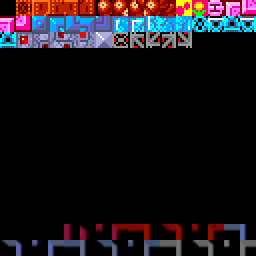
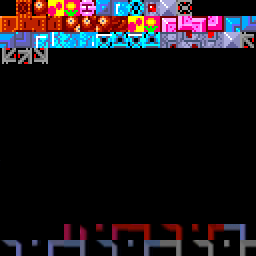
fixed solidity and changed bitmap

Changed region(s): [[0.0, 0.0, 1.0, 0.25]]

diff --git a/Bubble Bobble/src/terrain/TileLayer.cpp b/Bubble Bobble/src/terrain/TileLayer.cpp
@@ -18,7 +18,8 @@
 		for (Dim i=0; i<TILE_LAYER_HEIGHT; ++i){
 			for (Dim j=0; j<TILE_LAYER_WIDTH; ++j){		
 				map[i][j] = 0;
-				tilesSolidity[i][j] = EmptyOrShadow;
+				tilesSolidity[i][j][true] = false;
+				tilesSolidity[i][j][false] = false;
 			}
 		}
 		delete tilesBitmap;
@@ -49,14 +50,18 @@
 				for (Dim j=0; j<TILE_LAYER_WIDTH; ++j){
 					openfile >> nextIndex;
 					map[i][j] = nextIndex;
-					if (map[i][j] == 0 || map[i][j] > SOLID_THRESHOLD){
-						tilesSolidity[i][j] = EmptyOrShadow;
-					}
-					else if (map[i][j] == 1){
-						tilesSolidity[i][j] = SmallBrick;
-					}
-					else{
-						tilesSolidity[i][j] = BigBrick;
+					/*empty or shadow*/
+					if (map[i][j] == 0 || map[i][j] >= BIG_BRICK_THRESHOLD){
+						tilesSolidity[i][j][true] = false;
+						tilesSolidity[i][j][false] = false;
+					}/*small brick*/
+					else if (map[i][j] < SMALL_BRICK_THRESHOLD){
+						tilesSolidity[i][j][true] = false;
+						tilesSolidity[i][j][false] = true;
+					}/*big brick*/
+					else if (map[i][j] >= SMALL_BRICK_THRESHOLD && map[i][j] <= BIG_BRICK_THRESHOLD){
+						tilesSolidity[i][j][true] = true;
+						tilesSolidity[i][j][false] = true;
 					}
 					DASSERT( map[i][j] >= 0 && map[i][j] < TILES_BITMAP_SIZE*TILES_BITMAP_SIZE  );
 				}
@@ -136,27 +141,13 @@
 		return std::make_pair(MUL_TILE_SIZE(row), MUL_TILE_SIZE(col) );
 	}
 
-	const bool TileLayer::isSolid(Dim x, Dim y, BBmovement move) const{
-
-		DASSERT(move>=-1 && move <=2);
+	const bool TileLayer::isSolid(Dim x, Dim y, BBMovementIsUp moveUp) const{
 
 		Coordinates tileCoordinates = GetTileCoordinates(x,y);
-		DASSERT(tilesSolidity[tileCoordinates.first][tileCoordinates.second] >= -1 &&
-				tilesSolidity[tileCoordinates.first][tileCoordinates.second]<=1);
 
-		switch (tilesSolidity[tileCoordinates.first][tileCoordinates.second]){
-			case EmptyOrShadow:
-				return false;
-			case SmallBrick:
-				if (move == BBUp)
-					return false;
-				else
-					return true;
-			case BigBrick:
-				return true;
-			default:
-				return false;
-		}
+		return tilesSolidity[tileCoordinates.first]
+							[tileCoordinates.second]
+							[moveUp];
 	}
 
 	/*view window*/

diff --git a/Bubble Bobble/include/terrain/TileLayer.h b/Bubble Bobble/include/terrain/TileLayer.h
@@ -7,12 +7,12 @@
 #include <allegro5\allegro.h>
 #include <allegro5\allegro_image.h>
 
-typedef std::pair<Dim, Dim> Coordinates;
-
 enum HorizScroll {Left = -1, HorizIntact = 0, Right = +1 };
 enum VertScroll {Up = -1, VertIntact = 0, Down = +1 };
-enum Solidity_t {BigBrick = -1, SmallBrick = 0, EmptyOrShadow = +1};
-enum BBmovement {BBLeft = -1, BBUp = 0, BBDown = +1, BBRight = +2 };
+
+typedef std::pair<Dim, Dim> Coordinates;
+typedef bool BBMovementIsUp;
+#define MAX_SEPARATED_MOVEMENTS 2
 
 #define TILE_LAYER_WIDTH 32
 #define TILE_LAYER_HEIGHT 26
@@ -20,6 +20,9 @@ enum BBmovement {BBLeft = -1, BBUp = 0, BBDown = +1, BBRight = +2 };
 #define VIEW_WINDOW_HEIGHT 416
 #define VIEW_WINDOW_TILE_WIDTH 32
 #define VIEW_WINDOW_TILE_HEIGHT 26
+
+#define SMALL_BRICK_THRESHOLD 16
+#define BIG_BRICK_THRESHOLD 64
 
 class TileLayer{
 
@@ -31,7 +34,7 @@ class TileLayer{
 	private:
 		TileBitmap* tilesBitmap;
 		Index map[TILE_LAYER_HEIGHT][TILE_LAYER_WIDTH];
-		Solidity_t tilesSolidity[TILE_LAYER_HEIGHT][TILE_LAYER_WIDTH];
+		bool tilesSolidity[TILE_LAYER_HEIGHT][TILE_LAYER_WIDTH][MAX_SEPARATED_MOVEMENTS];
 		Rect viewWindow;
 
 	public:
@@ -45,7 +48,7 @@ class TileLayer{
 		Index GetTile (Dim row, Dim col);
 		const Coordinates GetTileCoordinates (Dim x, Dim y) const;
 		const Coordinates GetXYCoordinates (Dim row, Dim col) const;
-		const bool isSolid(Dim x, Dim y, BBmovement move) const;
+		const bool isSolid(Dim x, Dim y, BBMovementIsUp moveUp) const;
 
 		void SetViewWindow (const Rect&);
 		const Rect	GetViewWindow (void) const;

diff --git a/Bubble Bobble/src/BubbleMain.cpp b/Bubble Bobble/src/BubbleMain.cpp
@@ -62,8 +62,8 @@ TileLayer* BubbleMain::InitTerrain(){
 void BubbleMain::InitGameEngine(){
 
 	afh = new AnimationFilmHolder("..\\data\\bitmaps\\sprites\\data.xml");
-	FrameRangeAnimation *fra=new FrameRangeAnimation(0,6,-2,0,100,false,1);
-	Sprite *sprite=new Sprite(400,50,false,afh->GetFilm("Bubopenmouth"), actionLayer);
+	FrameRangeAnimation *fra=new FrameRangeAnimation(0,6,-2,0,100,true,1);
+	Sprite *sprite=new Sprite(150,50,false,afh->GetFilm("Bubopenmouth"), actionLayer);
 	FrameRangeAnimator *frtor=new FrameRangeAnimator();
 	frtor->SetOnFinish(EventCallbacks::BubbleWalkStop, 0 ); 
 

diff --git a/Bubble Bobble/src/animations/Sprite.cpp b/Bubble Bobble/src/animations/Sprite.cpp
@@ -7,18 +7,10 @@ void Sprite::Display(Bitmap dest){
 
 static bool isSolidTerrain(const TileLayer * tileLayer, Dim x, Dim y, Dim _x, Dim _y){
 	if(_y>0){
-		return tileLayer->isSolid(x+_x, y+_y, BBUp);
-	}else
-	if(_y<0){
-		return tileLayer->isSolid(x+_x, y+_y, BBDown);
-	}else
-	if(_x>0){
-		return tileLayer->isSolid(x+_x, y+_y, BBRight);
-	}else 
-	if(_x<0){
-		return tileLayer->isSolid(x+_x, y+_y, BBLeft);
+		return tileLayer->isSolid(x+_x, y+_y, true);
+	}else{
+		return tileLayer->isSolid(x+_x, y+_y, false);
 	}
-	return true;
 }
 
 void Sprite::Move( Dim _x, Dim _y ){

diff --git a/Bubble Bobble/include/terrain/TerrainUtilities.h b/Bubble Bobble/include/terrain/TerrainUtilities.h
@@ -8,7 +8,6 @@ typedef unsigned char Index;
 
 #define TILE_SIZE 16
 #define TILES_BITMAP_SIZE 16
-#define SOLID_THRESHOLD 92
 
 /*masks for 16 x 16 tiles bitmap*/
 #define	ROW_MASK	0x0F
